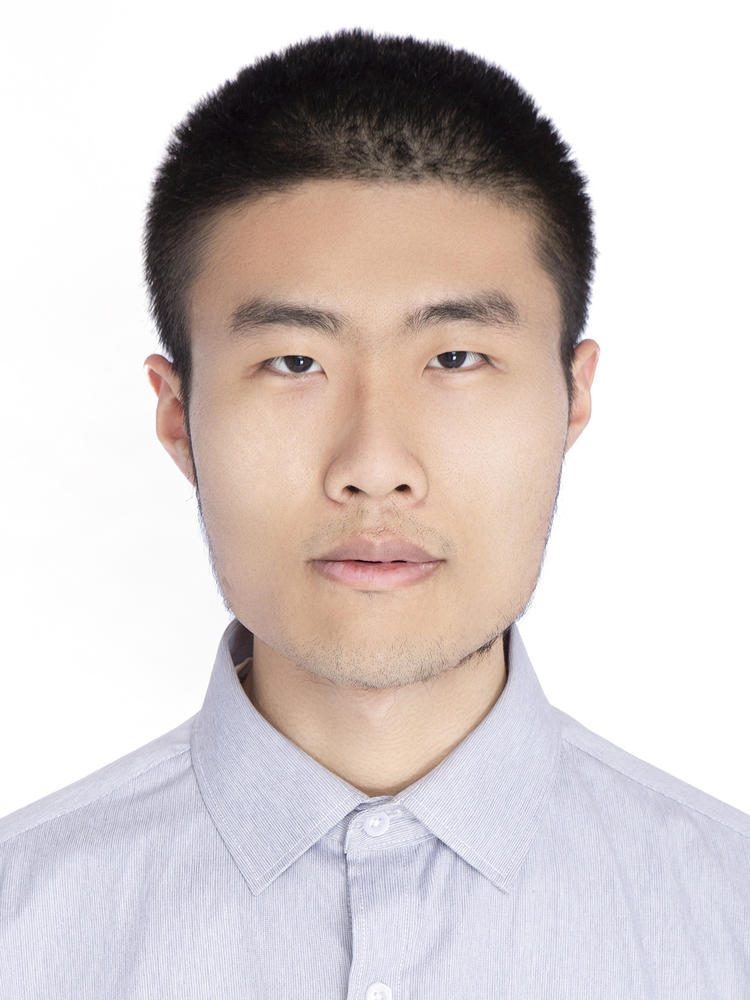
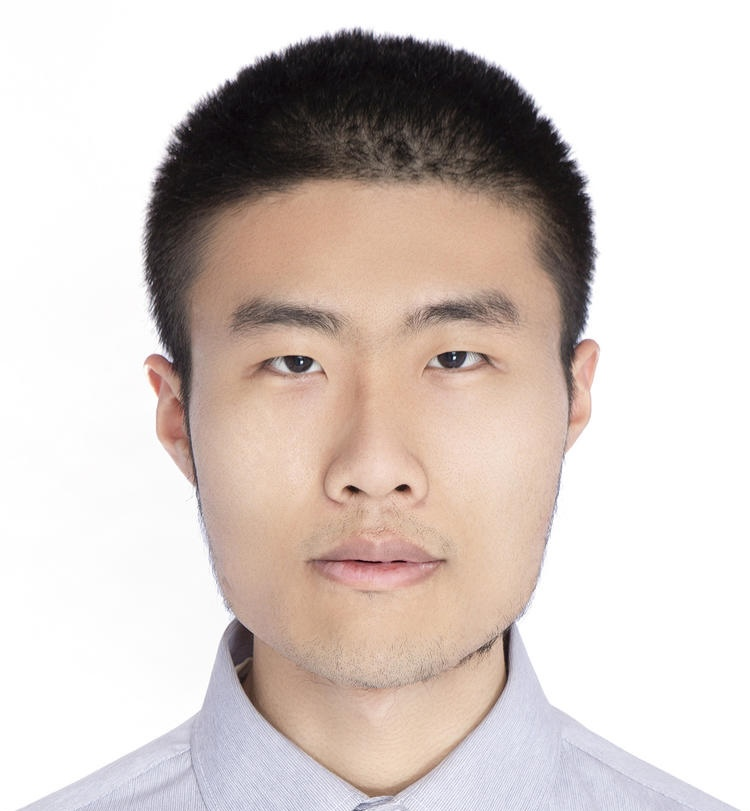
update

diff --git a/index.html b/index.html
@@ -403,7 +403,7 @@
       </div>
       <div style="width: 16.66%; text-align: center;">
         <a href="https://arxiv.org/abs/2504.05295" target="_blank">Paper</a>
-        <div><a href="https://cmu.zoom.us/j/7071858774?pwd=L44hl3alANNbCvmui2Cxrg97PgZ99a.1&omn=99455580371" target="_blank">Zoom Link</a></div>
+        <div><a href="https://youtu.be/pfUl5lcYTRA" target="_blank">Youtube</a></div>
       </div>
     </div>
 
